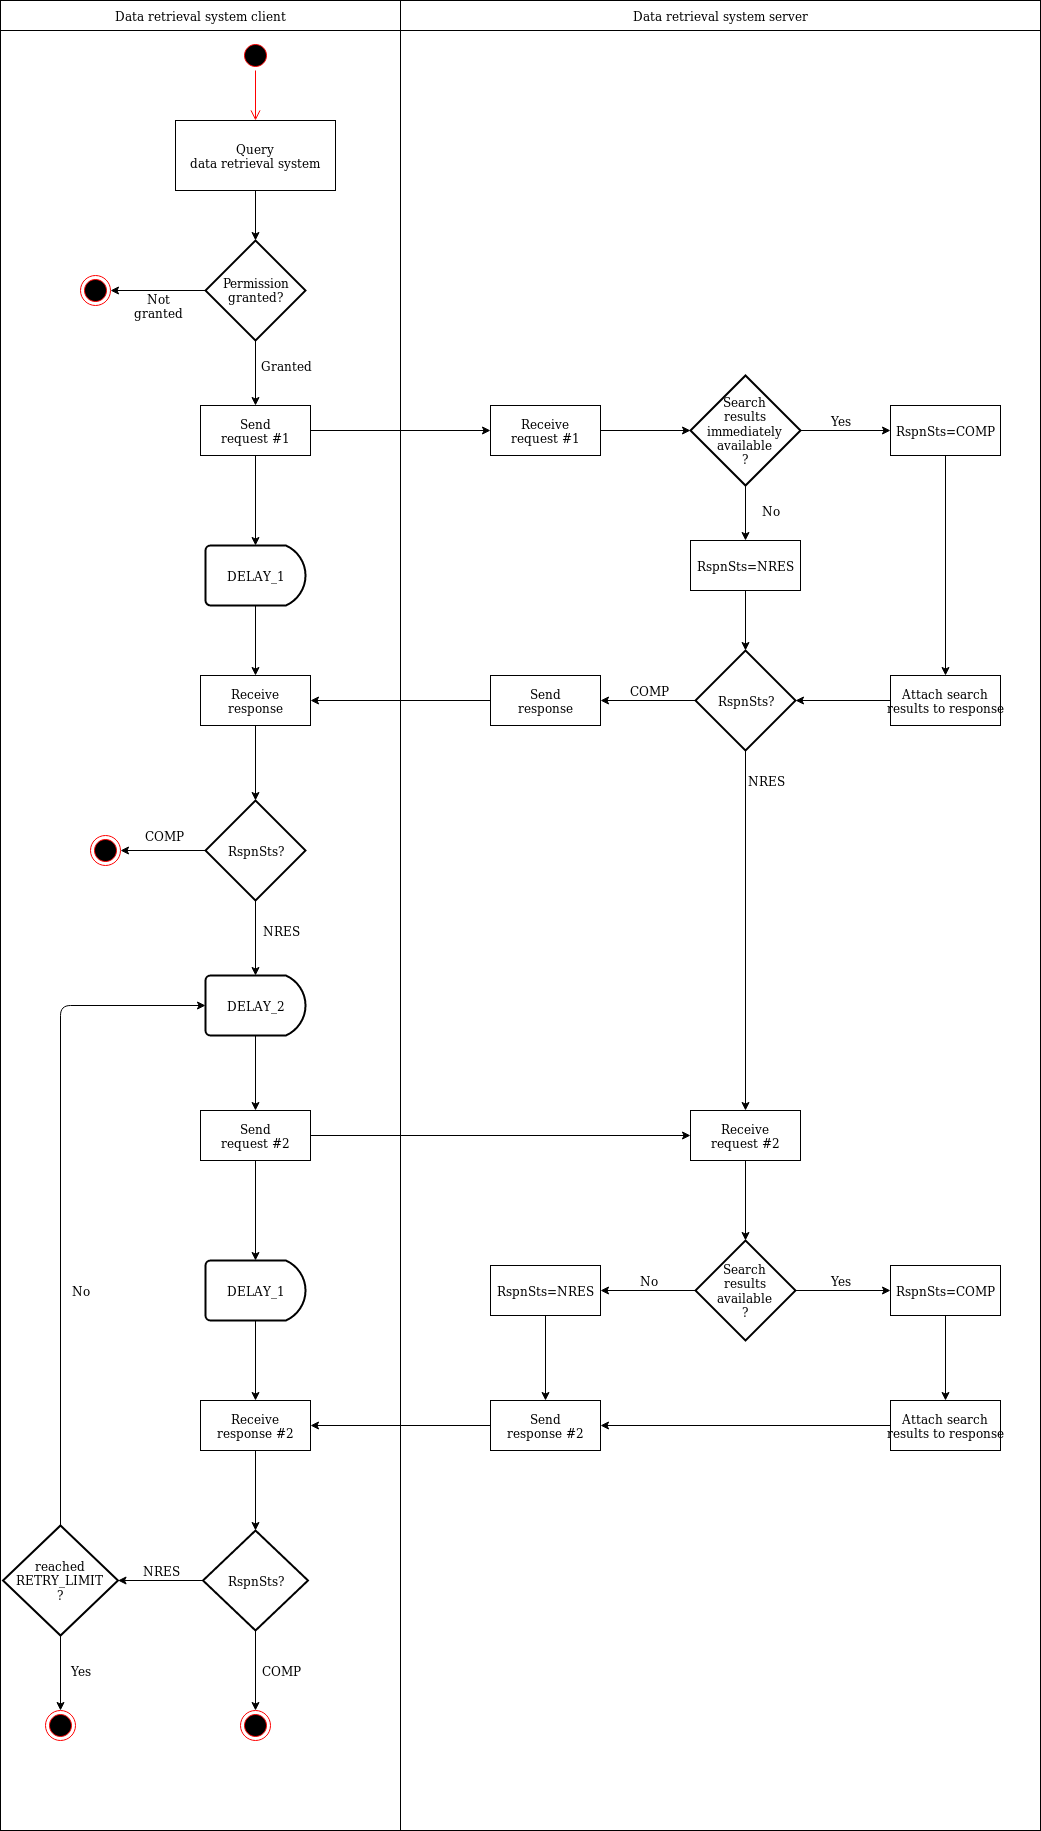
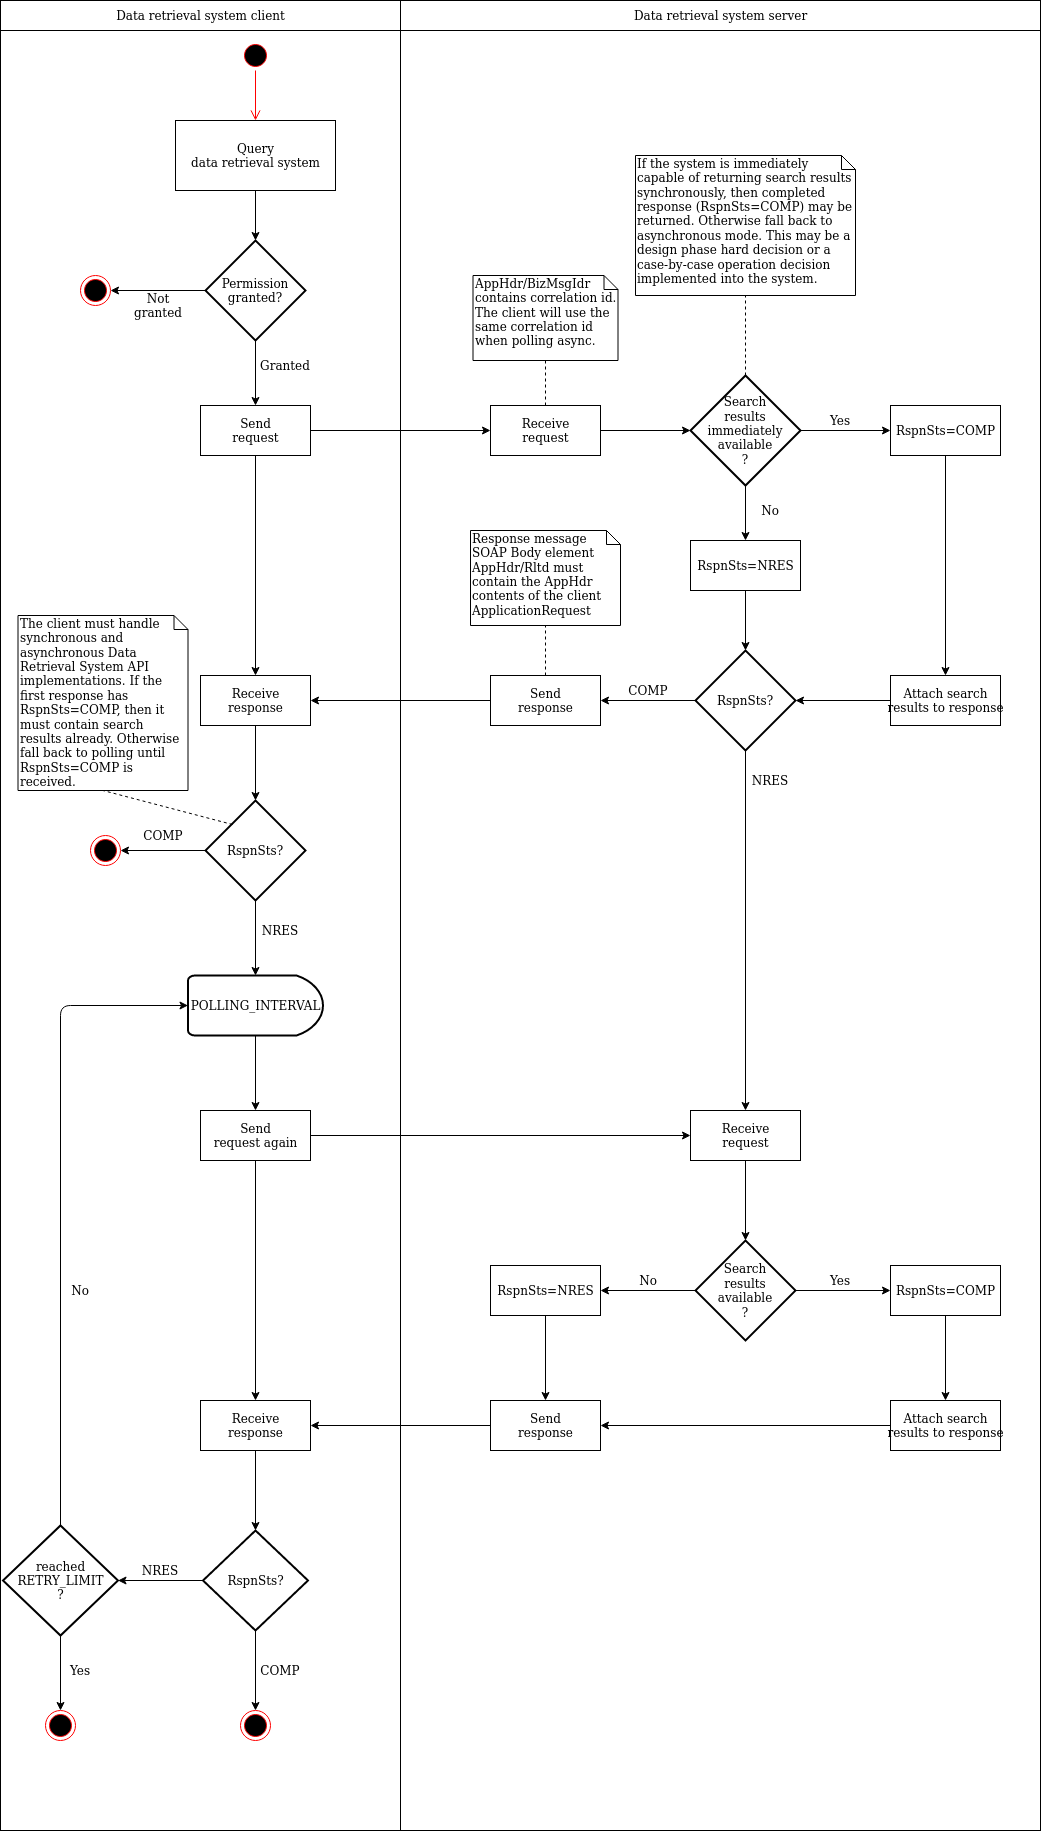
TR-543 Update flowchart. Add numeric erro codes to section 4.12

diff --git a/index.md b/index.md
@@ -6,7 +6,7 @@
 
 # Tiedonhakujärjestelmän kyselyrajapintakuvaus
 
-*Dokumentin versio 1.0.22*
+*Dokumentin versio 1.0.23*
 
 ## Versiohistoria
 
@@ -35,6 +35,7 @@ Versio|Päivämäärä|Kuvaus
 1.0.20|17.4.2020|Lisätty InformationResponseFIN013 Beneficiary-kentälle roolin alkamis- ja päättymispäivät. Päivitetty InformationResponseFIN013 versioon fin.013.001.03.|
 1.0.21|20.4.2020|Poistettu mahdollisuus hakea henkilötodistuksen tunnistenumerolla.|
 1.0.22|24.4.2020|Päivitetty SearchCriteria1Choice-kentän kuvaus kappaleessa 4.5.|
+1.0.23|20.4.2020|Selvennetty kuvaa 2.1. Pankki- ja maksutilitietojen kysely. Lisätty virhekoodeille numerointi.|
 
 ## Sisällysluettelo
 
@@ -115,22 +116,21 @@ Taulukossa 2.1. on esitetty vuokaavion muuttujien merkitys.
 
 |Muuttuja|Kuvaus|
 |:--|:--|
-|DELAY_1|Kyselyn request #1 sallittu maksimiviive, "välittömästi"|
-|DELAY_2|Pollausväli, viive joka clientin on odotettava ennen seuraavaa kyselyä|
-|RETRY_LIMIT|Kuinka monta pollausta (request #2) on sallittua tehdä|
+|POLLING_INTERVAL|Pollausväli, viive joka clientin on odotettava ennen seuraavaa kyselyä. Jos client pollaa serveriä liian tiheästi, voi server hylätä transaktion käsittelyn (virhekoodi 3, ks [4.12](#4-12)).|
+|RETRY_LIMIT|Kuinka monta pollausta on sallittua tehdä, ennen kuin lopetetaan. Jos vastausta ei edelleenkään saada, on joko tehtävä kokonaan uusi kysely tai siirrettävä asia manuaaliseen käsittelyyn.|
 
 Taulukossa 2.1. esitettyjen muuttujien kulloinkin voimassa olevat arvot kerrotaan liitedokumentaatiossa.
 
 Kyselyn vuo kulkee seuraavasti:
 1. Client lähettää kyselysanoman
-2. Server joko  
-  a. Palauttaa vastaussanoman, joka sisältää hakutuloksen ja koodin *COMP*, muuttujassa *DELAY_1* määritellyn viiveen sisällä ("välittömästi"), tai  
+2. Server voi kyvykkyydestä ja kontekstista riippuen palauttaa hakutulokset joko synkronisesti tai asynkronisesti. Server joko  
+  a. Palauttaa vastaussanoman, joka sisältää hakutuloksen ja koodin *COMP*, viiden (5) sekunnin sisällä, tai  
   b. palauttaa vastaussanoman, joka sisältää koodin *NRES* 
 3. Client tarkistaa onko vastaussanomassa koodi *COMP* vai *NRES*
 4. Jos koodi on *COMP*, siirrytään kohtaan 10.
-5. Koodi on *NRES*. Client odottaa *DELAY_2* muuttujan määrittämän ajan ja tekee sen jälkeen kyselyn request #2
+5. Koodi on *NRES*. Client odottaa *POLLING_INTERVAL* muuttujan määrittämän ajan ja tekee sen jälkeen kyselyn request #2
 6. Server, joko  
-  a. Palauttaa hakutuloksen ja koodin *COMP*, muuttujassa *DELAY_1* määritellyn viiveen sisällä ("välittömästi"), tai  
+  a. Palauttaa hakutuloksen ja koodin *COMP*, tai  
   b. palauttaa vastaussanoman, joka sisältää koodin *NRES* 
 7. Client tarkistaa onko vastaussanomassa koodi *COMP* vai *NRES*
 8. Jos koodi on *COMP*, siirrytään kohtaan 10.
@@ -888,23 +888,74 @@ Kuvaus|Sanoma käsiteltiin kokonaisuudessaan onnistuneesti.
 HTTP status code|202
 Seuraamus|Palautetaan head.001.001.01 ja auth.002.001.01 sanomat ja mahdolliset alisanomat|
 
-#### Skenaario 2 - Virheellinen kyselysanoma
+#### Skenaario 2 - Tapahtui virhe
 
 | | |
 |---|---|  
-Kuvaus|Virheellinen sanoma.  
+Kuvaus|Tapahtui virhe  
 HTTP status code|500
 Seuraamus|Palautetaan SOAP Fault ks. taulukko alla|
 
 
 *__Taulukko 4.12.1:__ Virhekoodit*
-<table class="confluenceTable wrapped"><colgroup><col /><col /><col /><col /></colgroup><tbody><tr><th class="confluenceTh">Virhetilanne</th><th class="confluenceTh">faultcode</th><th class="confluenceTh" colspan="1">faultstring</th><th class="confluenceTh" colspan="1">detail</th></tr><tr><td class="confluenceTd">Asynkronisesti aloitettu kysely on kadonnut</td><td class="confluenceTd">SOAP-ENV:Server</td><td class="confluenceTd" colspan="1">The query has been lost. Please re-send initial query.</td><td class="confluenceTd" colspan="1"><br /></td></tr><tr><td class="confluenceTd">XML-allekirjoitus on virheellinen</td><td class="confluenceTd">SOAP-ENV:Client</td><td class="confluenceTd" colspan="1">The provided signature is invalid.</td><td class="confluenceTd" colspan="1"><br /></td></tr><tr><td class="confluenceTd">Sanomassa on validointivirheit&auml;</td><td class="confluenceTd">SOAP-ENV:Client</td><td class="confluenceTd" colspan="1">Bad Request.</td><td class="confluenceTd" colspan="1"><p>1 kpl ValidationError-elementti&auml; per validointivirhe esim.</p><p><code>&lt;ValidationError&gt;</code><code>Validaatiovirheen kuvaus&lt;/ValidationError&gt;</code></p></td></tr><tr><td class="confluenceTd" colspan="1">Muu sis&auml;inen virhe</td><td class="confluenceTd" colspan="1">SOAP-ENV:Server</td><td class="confluenceTd" colspan="1">Internal Server Error.</td><td class="confluenceTd" colspan="1"><br /></td></tr></tbody></table>
+
+<table>
+  <colgroup><col /><col /><col /><col /></colgroup>
+  <tbody>
+    <tr>
+      <th>Virhetilanne</th>
+      <th >faultcode</th>
+      <th  colspan="1">faultstring</th>
+      <th  colspan="1">detail</th>
+      <th  colspan="1">Virhekoodi</th>
+    </tr>
+    <tr>
+      <td >Asynkronisesti aloitettu kysely on kadonnut</td>
+      <td >SOAP-ENV:Server</td>
+      <td  colspan="1">The query has been lost. Please re-send initial query.</td>
+      <td  colspan="1"><code>&lt;errorcode&gt;1&lt;/errorcode&gt;</code></td>
+      <td>1</td>
+    </tr>
+    <tr>
+      <td >XML-allekirjoitus on virheellinen</td>
+      <td >SOAP-ENV:Client</td>
+      <td  colspan="1">The provided signature is invalid.</td>
+      <td  colspan="1"><code>&lt;errorcode&gt;2&lt;/errorcode&gt;</code></td>
+      <td>2</td>
+    </tr>
+    <tr>
+      <td >Transaktio hylätty liian tiheän pollausvälin johdosta</td>
+      <td >SOAP-ENV:Client</td>
+      <td  colspan="1">Too many requests</td>
+      <td  colspan="1"><code>&lt;errorcode&gt;3&lt;/errorcode&gt;</code></td>
+      <td>3</td>
+    </tr>
+    <tr>
+      <td >Sanomassa on validointivirheit&auml;</td>
+      <td >SOAP-ENV:Client</td><td  colspan="1">Bad Request</td>
+      <td  colspan="1">
+        <p>1 kpl ValidationError-elementti&auml; per validointivirhe esim.</p>
+        <p><code>&lt;errorcode&gt;4&lt;/errorcode&gt;</code><br /><code>&lt;ValidationError&gt;</code><code>Validaatiovirheen kuvaus&lt;/ValidationError&gt;</code></p>
+      </td>
+      <td>4</td>
+    </tr>
+    <tr>
+      <td  colspan="1">Palvelimen virhe</td>
+      <td  colspan="1">SOAP-ENV:Server</td>
+      <td  colspan="1">Internal Server Error</td>
+      <td  colspan="1"><code>&lt;errorcode&gt;0&lt;/errorcode&gt;</code></td>
+      <td>0</td>
+    </tr>
+  </tbody>
+</table>
+
 
 ### <a name="4-13"></a> 4.13 Kiistanalaisten tietojen palauttaminen
 
 Kyselyvastauksessa esitetyistä tiedoista osa voi olla kiistanalaisia. Tällöin liitetään auth.002.001.01 sanomaan `Document/InfReqRspn/SplmtryData`-elementin alle disputed.xsd mukainen supplementary data, jossa listataan kiistanalaisten tietueiden tunnisteet. 
 
 *__Listaus 4.13.1:__ Esimerkki kiistanalaisten tietojen ilmoittamisesta Supplementary Datassa*
+
 ```
 <Document xmlns:xsi="http://www.w3.org/2001/XMLSchema-instance" xsi:noNamespaceSchemaLocation="disputed.xsd">
 	<Disputed>
